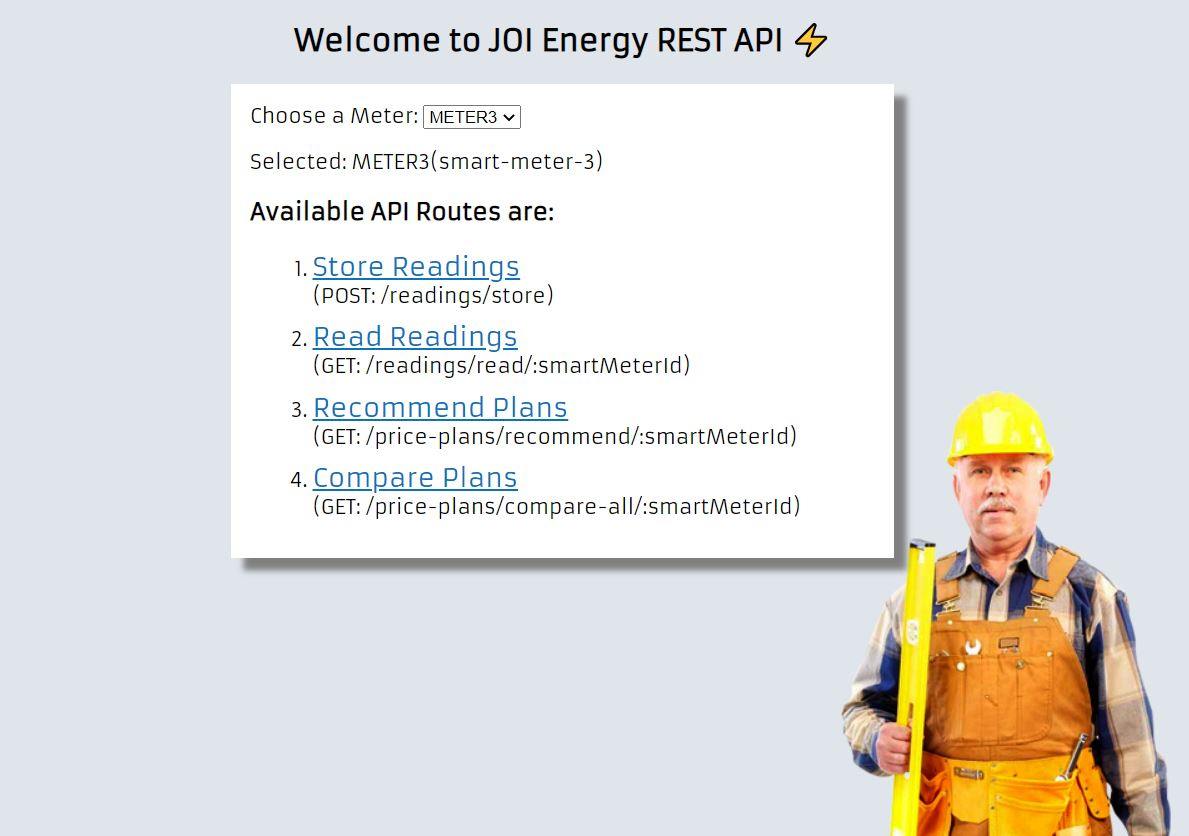
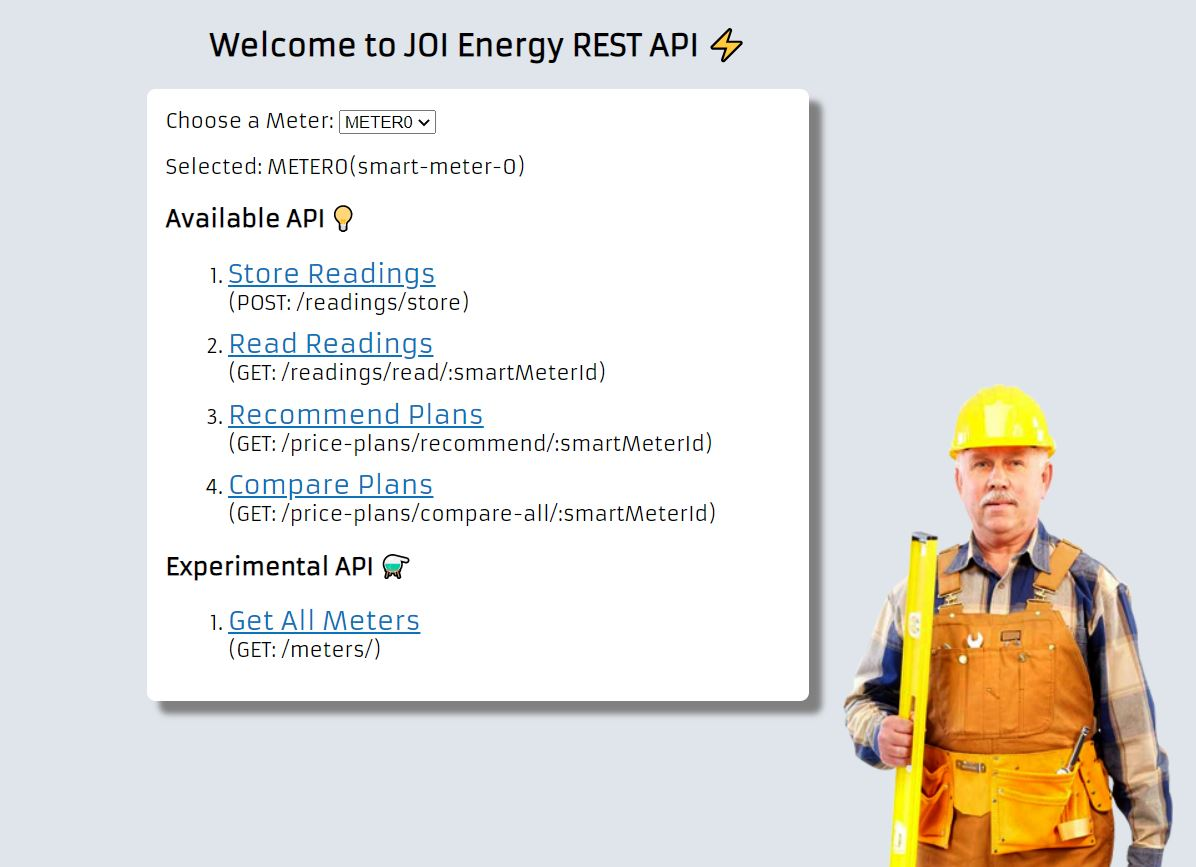
Show beta API in list of APIs
CHANGELOG
-  Added beta API in static site

diff --git a/src/www/index.html b/src/www/index.html
@@ -48,6 +48,7 @@
             margin-right: auto;
             background-color: #ffffff;
             box-shadow: 10px 10px 5px grey;
+            border-radius: 7px;
         }
 
         .api-list {
@@ -64,8 +65,10 @@
             <label for="meters">Choose a Meter: </label>
             <select id="meters"></select>
             <p id="selected-meter">Selected Meter</p>
-            <h3>Available API Routes are:</h3>
+            <h3>Available API 💡</h3>
             <p id="api-list" />
+            <h3>Experimental API ⚗</h3>
+            <p id="beta-api" />
         </div>
 </body>
 
@@ -74,6 +77,7 @@
     var smartMeterId = "smart-meter-1"
     const select = document.getElementById('meters');
     const apiList = document.getElementById("api-list")
+    const newAPI = document.getElementById("beta-api")
     const selectedMeter = document.getElementById("selected-meter")
 
     getData(baseURL + "/meters/")
@@ -96,13 +100,17 @@
     showAPIList = () => {
         let selection = select.options[select.selectedIndex]
         smartMeterId = selection.value
-        selectedMeter.innerHTML = "Selected: "+ select.options[select.selectedIndex].text + "(" + smartMeterId + ")"
+        selectedMeter.innerHTML = "Selected: " + select.options[select.selectedIndex].text + "(" + smartMeterId + ")"
         apiList.innerHTML =
             "<ol>" +
             "<li><a class =\"api\" href=\"#\" onclick=\"return storeReadings();\">Store Readings</a><br/>(POST: /readings/store)</li>" +
             "<li><a class =\"api\" target=\"_blank\" href=" + baseURL + "/readings/read/" + smartMeterId + ">Read Readings</a><br/>(GET: /readings/read/:smartMeterId)</li>" +
             "<li><a class =\"api\" target=\"_blank\" href=" + baseURL + "/price-plans/recommend/" + smartMeterId + ">Recommend Plans</a><br/>(GET: /price-plans/recommend/:smartMeterId)</li>" +
             "<li><a class =\"api\" target=\"_blank\" href=" + baseURL + "/price-plans/compare-all/" + smartMeterId + ">Compare Plans</a><br/>(GET: /price-plans/compare-all/:smartMeterId)</li>" +
+            "<ol>"
+        newAPI.innerHTML =
+            "<ol>" +
+            "<li><a class =\"api\" target=\"_blank\" href=" + baseURL + "/meters/" + ">Get All Meters</a><br/>(GET:  /meters/) </li>" +
             "<ol>"
     }
 
